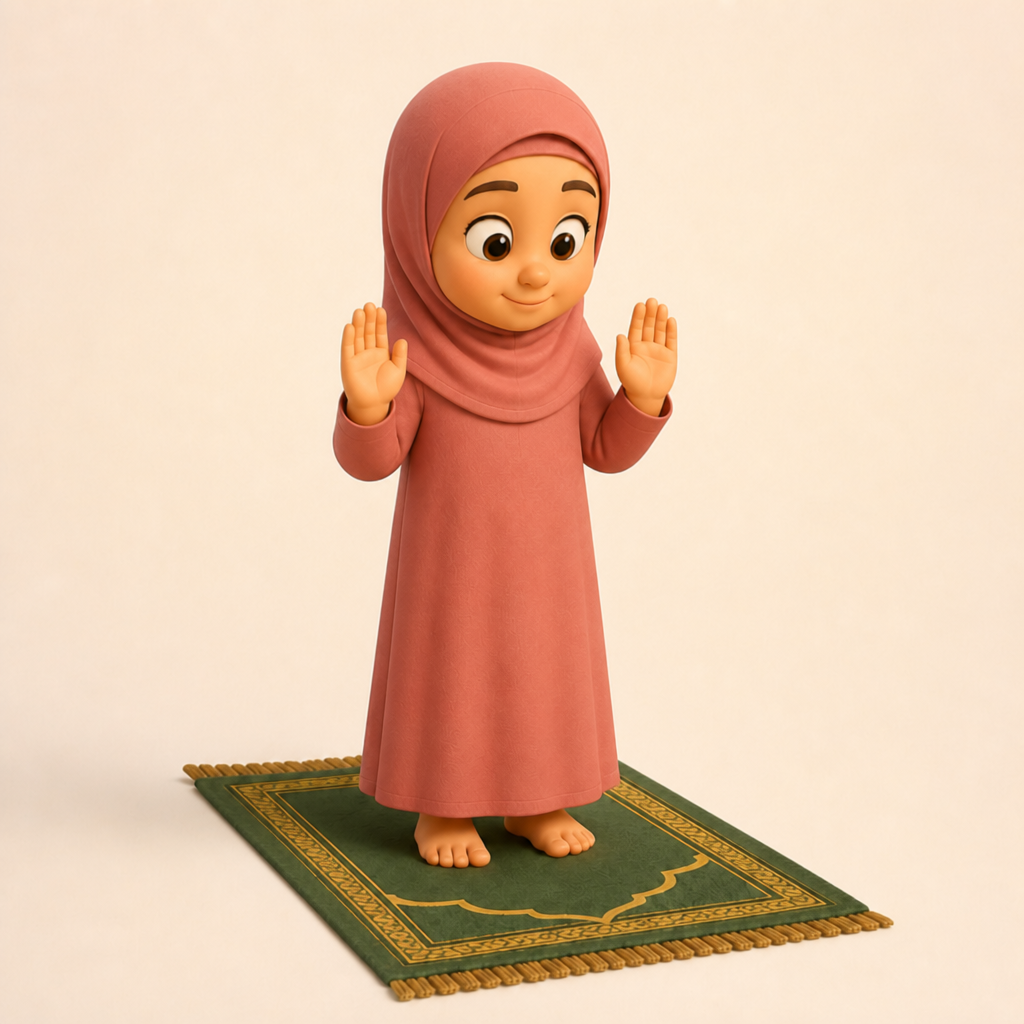
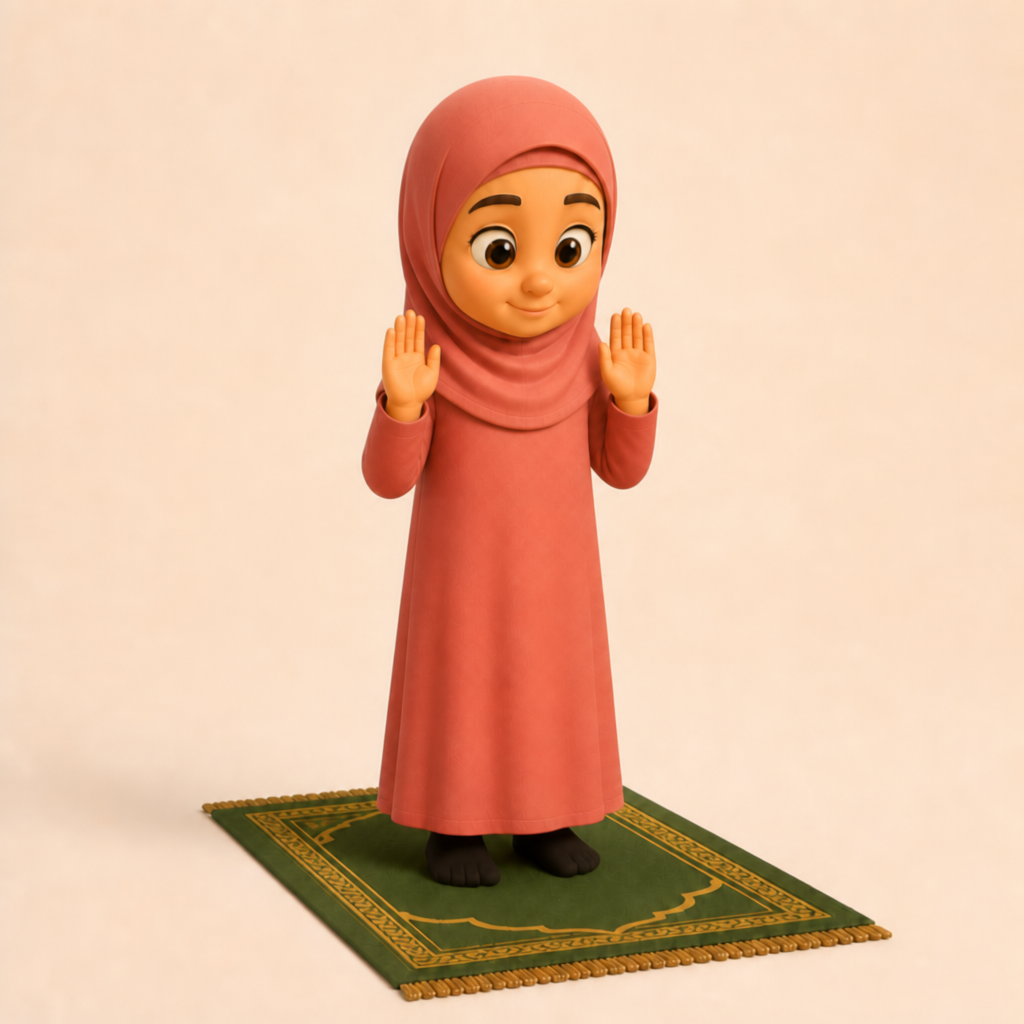
Kız namaz görsellerine siyah çorap ekle; secde ayaklarını ve tekbiri düzelt.
Kız akışında tamamlandı adımı da gizlendi.

Changed region(s): [[0.1562, 0.0625, 0.875, 1.0]]

diff --git a/lib/features/prayer/prayer_visual_catalog.dart b/lib/features/prayer/prayer_visual_catalog.dart
@@ -19,6 +19,7 @@ class PrayerVisualStep {
     this.motionFrames = const [],
     this.motionFramesGirl = const [],
     this.rakat = 1,
+    this.hideForGirl = false,
   });
 
   final String id;
@@ -36,6 +37,7 @@ class PrayerVisualStep {
   final List<String> motionFrames;
   final List<String> motionFramesGirl;
   final int rakat;
+  final bool hideForGirl;
 
   List<String> get duaIds => [
         if (duaId != null && duaId!.isNotEmpty) duaId!,
@@ -71,6 +73,7 @@ class PrayerVisualStep {
       motionFrames: JsonMap.strings(json['motion_frames']),
       motionFramesGirl: JsonMap.strings(json['motion_frames_girl']),
       rakat: JsonMap.integer(json['rakat'], 1),
+      hideForGirl: JsonMap.flag(json['hideForGirl']),
     );
   }
 
@@ -279,7 +282,7 @@ abstract final class PrayerVisualCatalog {
       image: 'assets/images/prayer/step09_secde1.png',
       imageGirl: 'assets/images/prayer/step09_secde_girl.png',
       girlNote:
-          'Kızlar secdede kollarını vücuda yakın tutar, daha derli toplu durur.',
+          'Kızlar secdede ellerini yüze yakın koyar, kollarını vücuda yapıştırır; ayaklarının üstünü yere koyup sağa yatırır.',
       kind: PrayerKind.farz,
       jsonStepId: 'sujud',
       duaId: 'sujud',
@@ -301,7 +304,7 @@ abstract final class PrayerVisualCatalog {
       image: 'assets/images/prayer/step10_secde2.png',
       imageGirl: 'assets/images/prayer/step09_secde_girl.png',
       girlNote:
-          'Kızlar secdede kollarını vücuda yakın tutar, daha derli toplu durur.',
+          'Kızlar secdede ellerini yüze yakın koyar, kollarını vücuda yapıştırır; ayaklarının üstünü yere koyup sağa yatırır.',
       kind: PrayerKind.farz,
       jsonStepId: 'sujud',
       duaId: 'sujud',
@@ -430,7 +433,7 @@ abstract final class PrayerVisualCatalog {
       image: 'assets/images/prayer/step09_secde1.png',
       imageGirl: 'assets/images/prayer/step09_secde_girl.png',
       girlNote:
-          'Kızlar secdede kollarını vücuda yakın tutar, daha derli toplu durur.',
+          'Kızlar secdede ellerini yüze yakın koyar, kollarını vücuda yapıştırır; ayaklarının üstünü yere koyup sağa yatırır.',
       kind: PrayerKind.farz,
       jsonStepId: 'sujud',
       duaId: 'sujud',
@@ -454,7 +457,7 @@ abstract final class PrayerVisualCatalog {
       image: 'assets/images/prayer/step10_secde2.png',
       imageGirl: 'assets/images/prayer/step09_secde_girl.png',
       girlNote:
-          'Kızlar secdede kollarını vücuda yakın tutar, daha derli toplu durur.',
+          'Kızlar secdede ellerini yüze yakın koyar, kollarını vücuda yapıştırır; ayaklarının üstünü yere koyup sağa yatırır.',
       kind: PrayerKind.farz,
       jsonStepId: 'sujud',
       duaId: 'sujud',
@@ -560,6 +563,7 @@ abstract final class PrayerVisualCatalog {
       imageGirl: 'assets/images/prayer/step16_tamam_girl.png',
       kind: PrayerKind.done,
       rakat: 0,
+      hideForGirl: true,
     ),
   ];
 
@@ -706,6 +710,7 @@ abstract final class PrayerVisualCatalog {
           ? json.motionFramesGirl
           : fallback.motionFramesGirl,
       rakat: json.rakat,
+      hideForGirl: json.hideForGirl || fallback.hideForGirl,
     );
   }
 

diff --git a/lib/features/prayer/prayer_catalog_view.dart b/lib/features/prayer/prayer_catalog_view.dart
@@ -36,6 +36,10 @@ class PrayerCatalogView extends StatefulWidget {
 class _PrayerCatalogViewState extends State<PrayerCatalogView> {
   final _scroll = ScrollController();
   List<PrayerVisualStep> _steps = PrayerVisualCatalog.steps;
+  List<PrayerVisualStep> get _visibleSteps => [
+        for (final step in _steps)
+          if (!_girlLearner || !step.hideForGirl) step,
+      ];
   List<PrayerTip> _tips = PrayerVisualCatalog.tips;
   List<PrayerRakat> _rakats = PrayerVisualCatalog.rakats;
   List<String> _farzLabels = PrayerVisualCatalog.farzLabels;
@@ -106,15 +110,15 @@ class _PrayerCatalogViewState extends State<PrayerCatalogView> {
     final blocks = <(String, List<PrayerVisualStep>)>[
       (
         '1. Rekat',
-        [for (final step in _steps) if (step.rakat == 1) step],
+        [for (final step in _visibleSteps) if (step.rakat == 1) step],
       ),
       (
         '2. Rekat',
-        [for (final step in _steps) if (step.rakat == 2) step],
+        [for (final step in _visibleSteps) if (step.rakat == 2) step],
       ),
     ];
     final rest = [
-      for (final step in _steps)
+      for (final step in _visibleSteps)
         if (step.rakat != 1 && step.rakat != 2) step,
     ];
     if (rest.isNotEmpty) {
@@ -150,7 +154,7 @@ class _PrayerCatalogViewState extends State<PrayerCatalogView> {
                   onTap: () => widget.onOpenStep(
                     step,
                     girl: _girlLearner,
-                    totalSteps: _steps.length,
+                    totalSteps: _visibleSteps.length,
                   ),
                   onToggleFavorite: () {
                     _store?.toggleFavorite(
@@ -248,8 +252,8 @@ class _PrayerCatalogViewState extends State<PrayerCatalogView> {
           ),
           const SizedBox(height: 8),
           _PrayerProgressBar(
-            done: _doneIds.where((id) => _steps.any((step) => step.id == id)).length,
-            total: _steps.length,
+            done: _doneIds.where((id) => _visibleSteps.any((step) => step.id == id)).length,
+            total: _visibleSteps.length,
           ),
           const SizedBox(height: 10),
           const Wrap(
